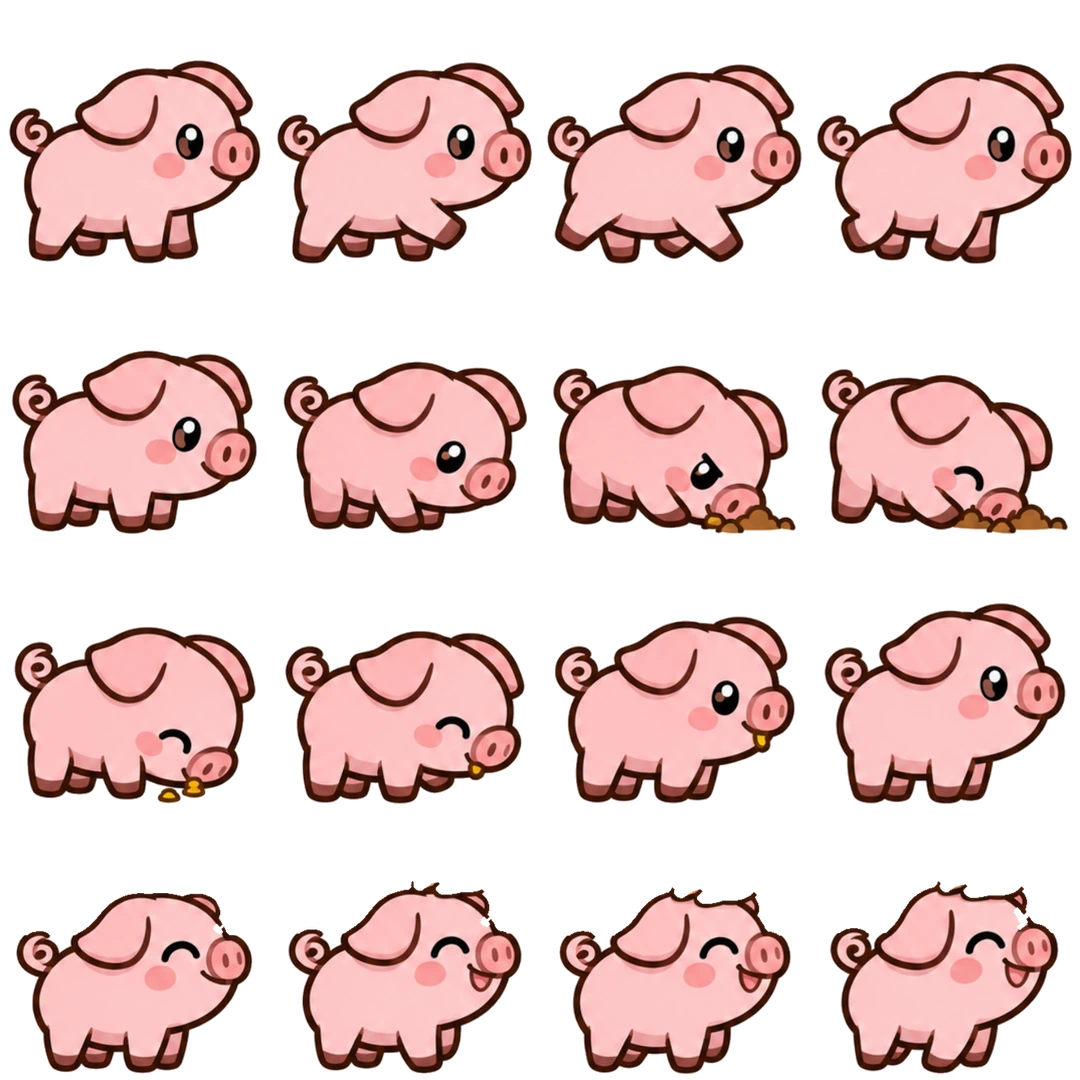
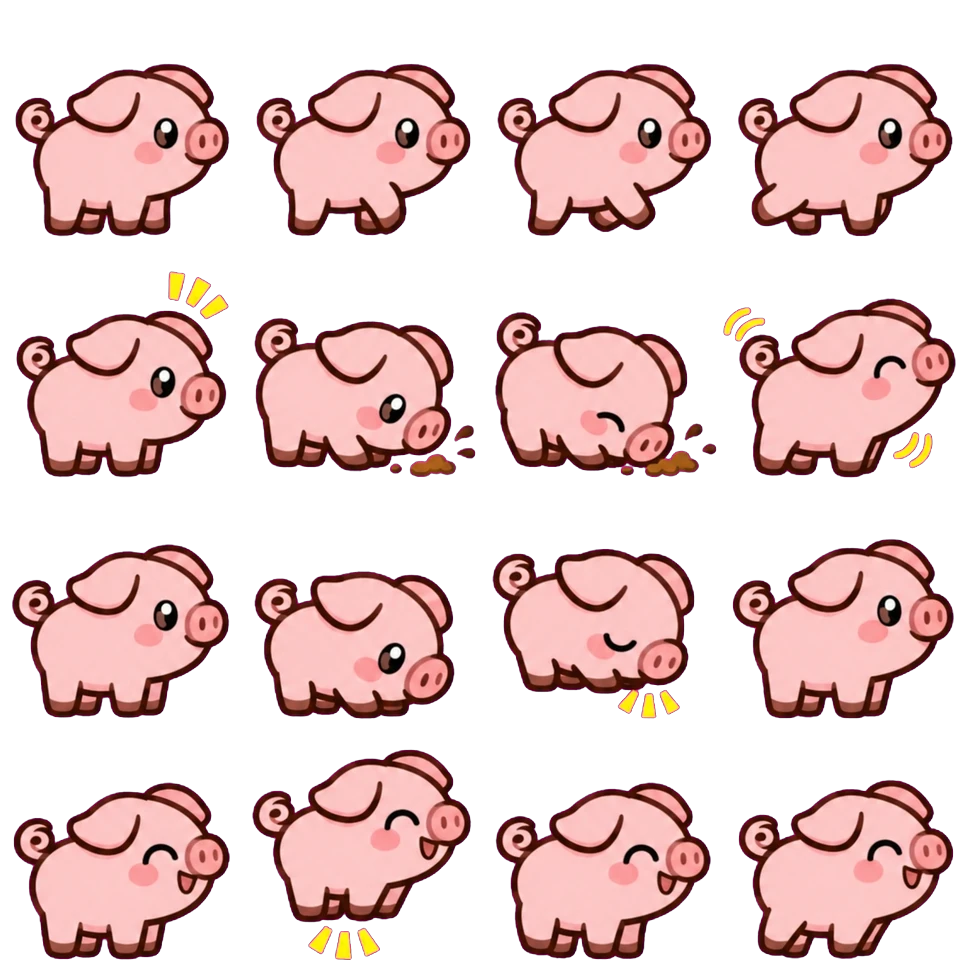
Mini pig redrawn cleanly (no specks on the head); mouth/size re-measured for mini pig and capybara
Claude-Session: https://claude.ai/code/session_01WYXHXwKxHQowMAYmWZLpUL

diff --git a/index.html b/index.html
@@ -353,7 +353,7 @@
 <script>
 // ---- UI icon set (ui_icons.webp, 18 cells in one row) — emoji are shown until it loads ----
 // bump ASSET_V whenever an icon/emote picture changes, so phones download the new one instead of a cached copy
-var ASSET_V='20261120x';
+var ASSET_V='20261120y';
 const IC_N=['logo','pad','freeze','hide','zombie','fire','flash','run','shirt','gear','globe','trophy','girl','boy','jump','tag','logout','hello'];
 const IC={},IC_C={};
 function icFrom(img,i,name){const n=img.height,c=document.createElement('canvas');c.width=c.height=n;c.getContext('2d').drawImage(img,i*n,0,n,n,0,0,n,n);IC_C[name]=c;IC[name]=c.toDataURL();}
@@ -1746,7 +1746,7 @@ const PET_DEFS={   // pets that have their sprite sheet in the game now
   sloth:{name:'Sloth',h:81,special:'sleep',feel:3,still:[3,0]},
   corgi:{name:'Corgi',h:89,special:'zoomies',feel:7,still:[2,3]},
   turtle:{name:'Turtle',h:61,special:'hide',feel:3,still:[2,3]},
-  capybara:{name:'Capybara',h:109,special:'relax',feel:3,still:[2,3]},
+  capybara:{name:'Capybara',h:113,special:'relax',feel:3,still:[2,3]},
   hamster:{name:'Hamster',h:45,special:'cheeks',feel:7,still:[2,3]},
   holland_lop:{name:'Bunny',h:68,special:'hop',feel:2,still:[2,3]},
   baby_penguin:{name:'Penguin',h:89,special:'flap',feel:10,still:[2,3]},
@@ -1787,7 +1787,7 @@ const PET_DEFS={   // pets that have their sprite sheet in the game now
   sheep:{name:'Sheep',h:125,special:'baa',feel:2,still:[2,3]}};
 const petReady=id=>!!PETS_IMG[id];   // new pets appear once their sprite sheet has been added
 // where the mouth is when eating (m) and where the bottom is (b), as a share of the picture height, measured on each sheet
-const PET_GEO={"calico_cat": {"m": 0.472, "b": 0.448}, "sloth": {"m": 0.362, "b": 0.363}, "corgi": {"m": 0.452, "b": 0.426}, "turtle": {"m": 0.446, "b": 0.47}, "capybara": {"m": 0.475, "b": 0.462}, "hamster": {"m": 0.421, "b": 0.379}, "holland_lop": {"m": 0.46, "b": 0.455}, "baby_penguin": {"m": 0.365, "b": 0.36}, "shiba": {"m": 0.385, "b": 0.423}, "otter": {"m": 0.453, "b": 0.447}, "red_panda": {"m": 0.468, "b": 0.452}, "orange_cat": {"m": 0.43, "b": 0.489}, "guinea_pig": {"m": 0.462, "b": 0.465}, "hedgehog": {"m": 0.462, "b": 0.46}, "koala": {"m": 0.41, "b": 0.433}, "fennec_fox": {"m": 0.45, "b": 0.456}, "baby_panda": {"m": 0.416, "b": 0.407}, "golden_pup": {"m": 0.466, "b": 0.435}, "squirrel": {"m": 0.45, "b": 0.465}, "alpaca": {"m": 0.424, "b": 0.386}, "meerkat": {"m": 0.444, "b": 0.444}, "chinchilla": {"m": 0.451, "b": 0.455}, "arctic_fox": {"m": 0.442, "b": 0.459}, "tabby_cat": {"m": 0.444, "b": 0.444}, "black_cat": {"m": 0.464, "b": 0.462}, "white_cat": {"m": 0.424, "b": 0.478}, "thai_pup": {"m": 0.434, "b": 0.382}, "pomeranian": {"m": 0.43, "b": 0.47}, "chihuahua": {"m": 0.384, "b": 0.341}, "husky": {"m": 0.371, "b": 0.426}, "scottish_fold": {"m": 0.441, "b": 0.474}, "persian": {"m": 0.474, "b": 0.467}, "bearded_dragon": {"m": 0.439, "b": 0.466}, "chameleon": {"m": 0.43, "b": 0.445}, "leopard_gecko": {"m": 0.459, "b": 0.472}, "axolotl": {"m": 0.465, "b": 0.47}, "sugar_glider": {"m": 0.453, "b": 0.453}};
+const PET_GEO={"calico_cat": {"m": 0.472, "b": 0.448}, "sloth": {"m": 0.362, "b": 0.363}, "corgi": {"m": 0.452, "b": 0.426}, "turtle": {"m": 0.446, "b": 0.47}, "capybara": {"m": 0.466, "b": 0.46}, "hamster": {"m": 0.421, "b": 0.379}, "holland_lop": {"m": 0.46, "b": 0.455}, "baby_penguin": {"m": 0.365, "b": 0.36}, "shiba": {"m": 0.385, "b": 0.423}, "otter": {"m": 0.453, "b": 0.447}, "red_panda": {"m": 0.468, "b": 0.452}, "orange_cat": {"m": 0.43, "b": 0.489}, "guinea_pig": {"m": 0.462, "b": 0.465}, "hedgehog": {"m": 0.462, "b": 0.46}, "koala": {"m": 0.41, "b": 0.433}, "fennec_fox": {"m": 0.45, "b": 0.456}, "baby_panda": {"m": 0.416, "b": 0.407}, "golden_pup": {"m": 0.466, "b": 0.435}, "squirrel": {"m": 0.45, "b": 0.465}, "alpaca": {"m": 0.424, "b": 0.386}, "meerkat": {"m": 0.444, "b": 0.444}, "chinchilla": {"m": 0.451, "b": 0.455}, "arctic_fox": {"m": 0.442, "b": 0.459}, "tabby_cat": {"m": 0.444, "b": 0.444}, "black_cat": {"m": 0.464, "b": 0.462}, "white_cat": {"m": 0.424, "b": 0.478}, "thai_pup": {"m": 0.434, "b": 0.382}, "pomeranian": {"m": 0.43, "b": 0.47}, "chihuahua": {"m": 0.384, "b": 0.341}, "husky": {"m": 0.371, "b": 0.426}, "scottish_fold": {"m": 0.441, "b": 0.474}, "persian": {"m": 0.474, "b": 0.467}, "bearded_dragon": {"m": 0.439, "b": 0.466}, "chameleon": {"m": 0.43, "b": 0.445}, "leopard_gecko": {"m": 0.459, "b": 0.472}, "axolotl": {"m": 0.465, "b": 0.47}, "sugar_glider": {"m": 0.453, "b": 0.453}, "mini_pig": {"m": 0.365, "b": 0.459}};
 const petCellH=p=>petH(p)/0.85*0.98;
 const PETS_IMG={};
 function petImg(id){if(PETS_IMG[id]!==undefined)return PETS_IMG[id];PETS_IMG[id]=null;
